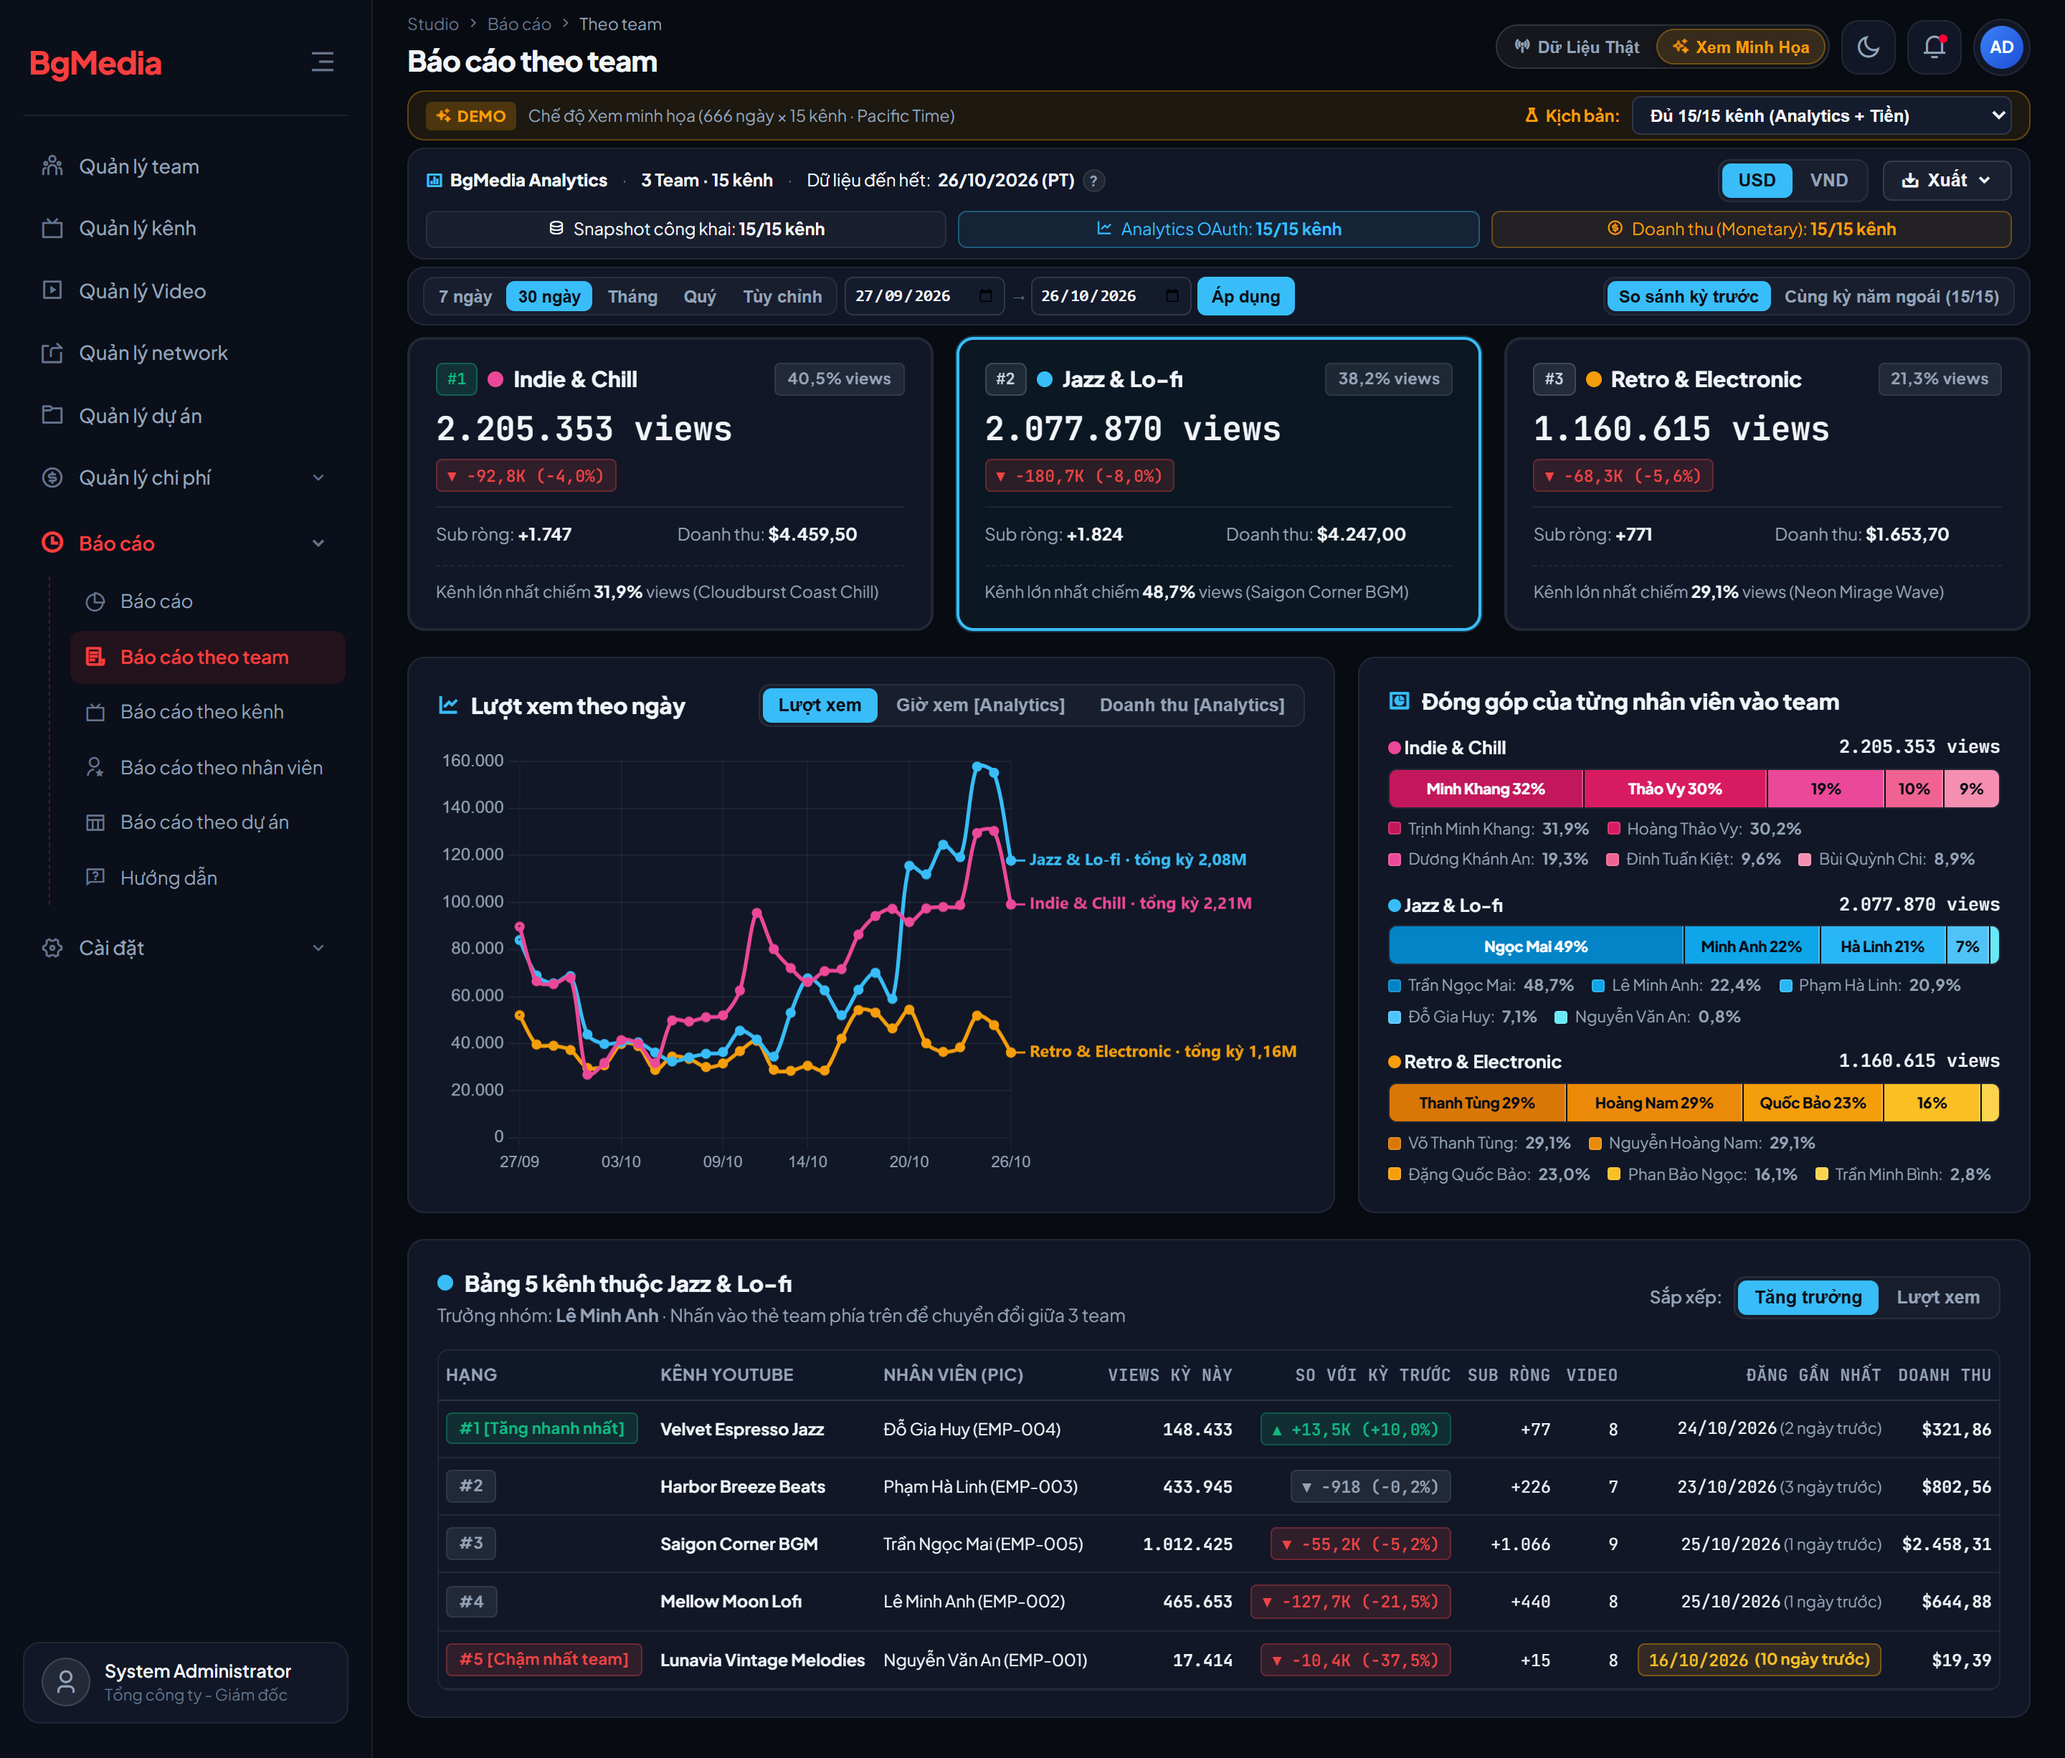
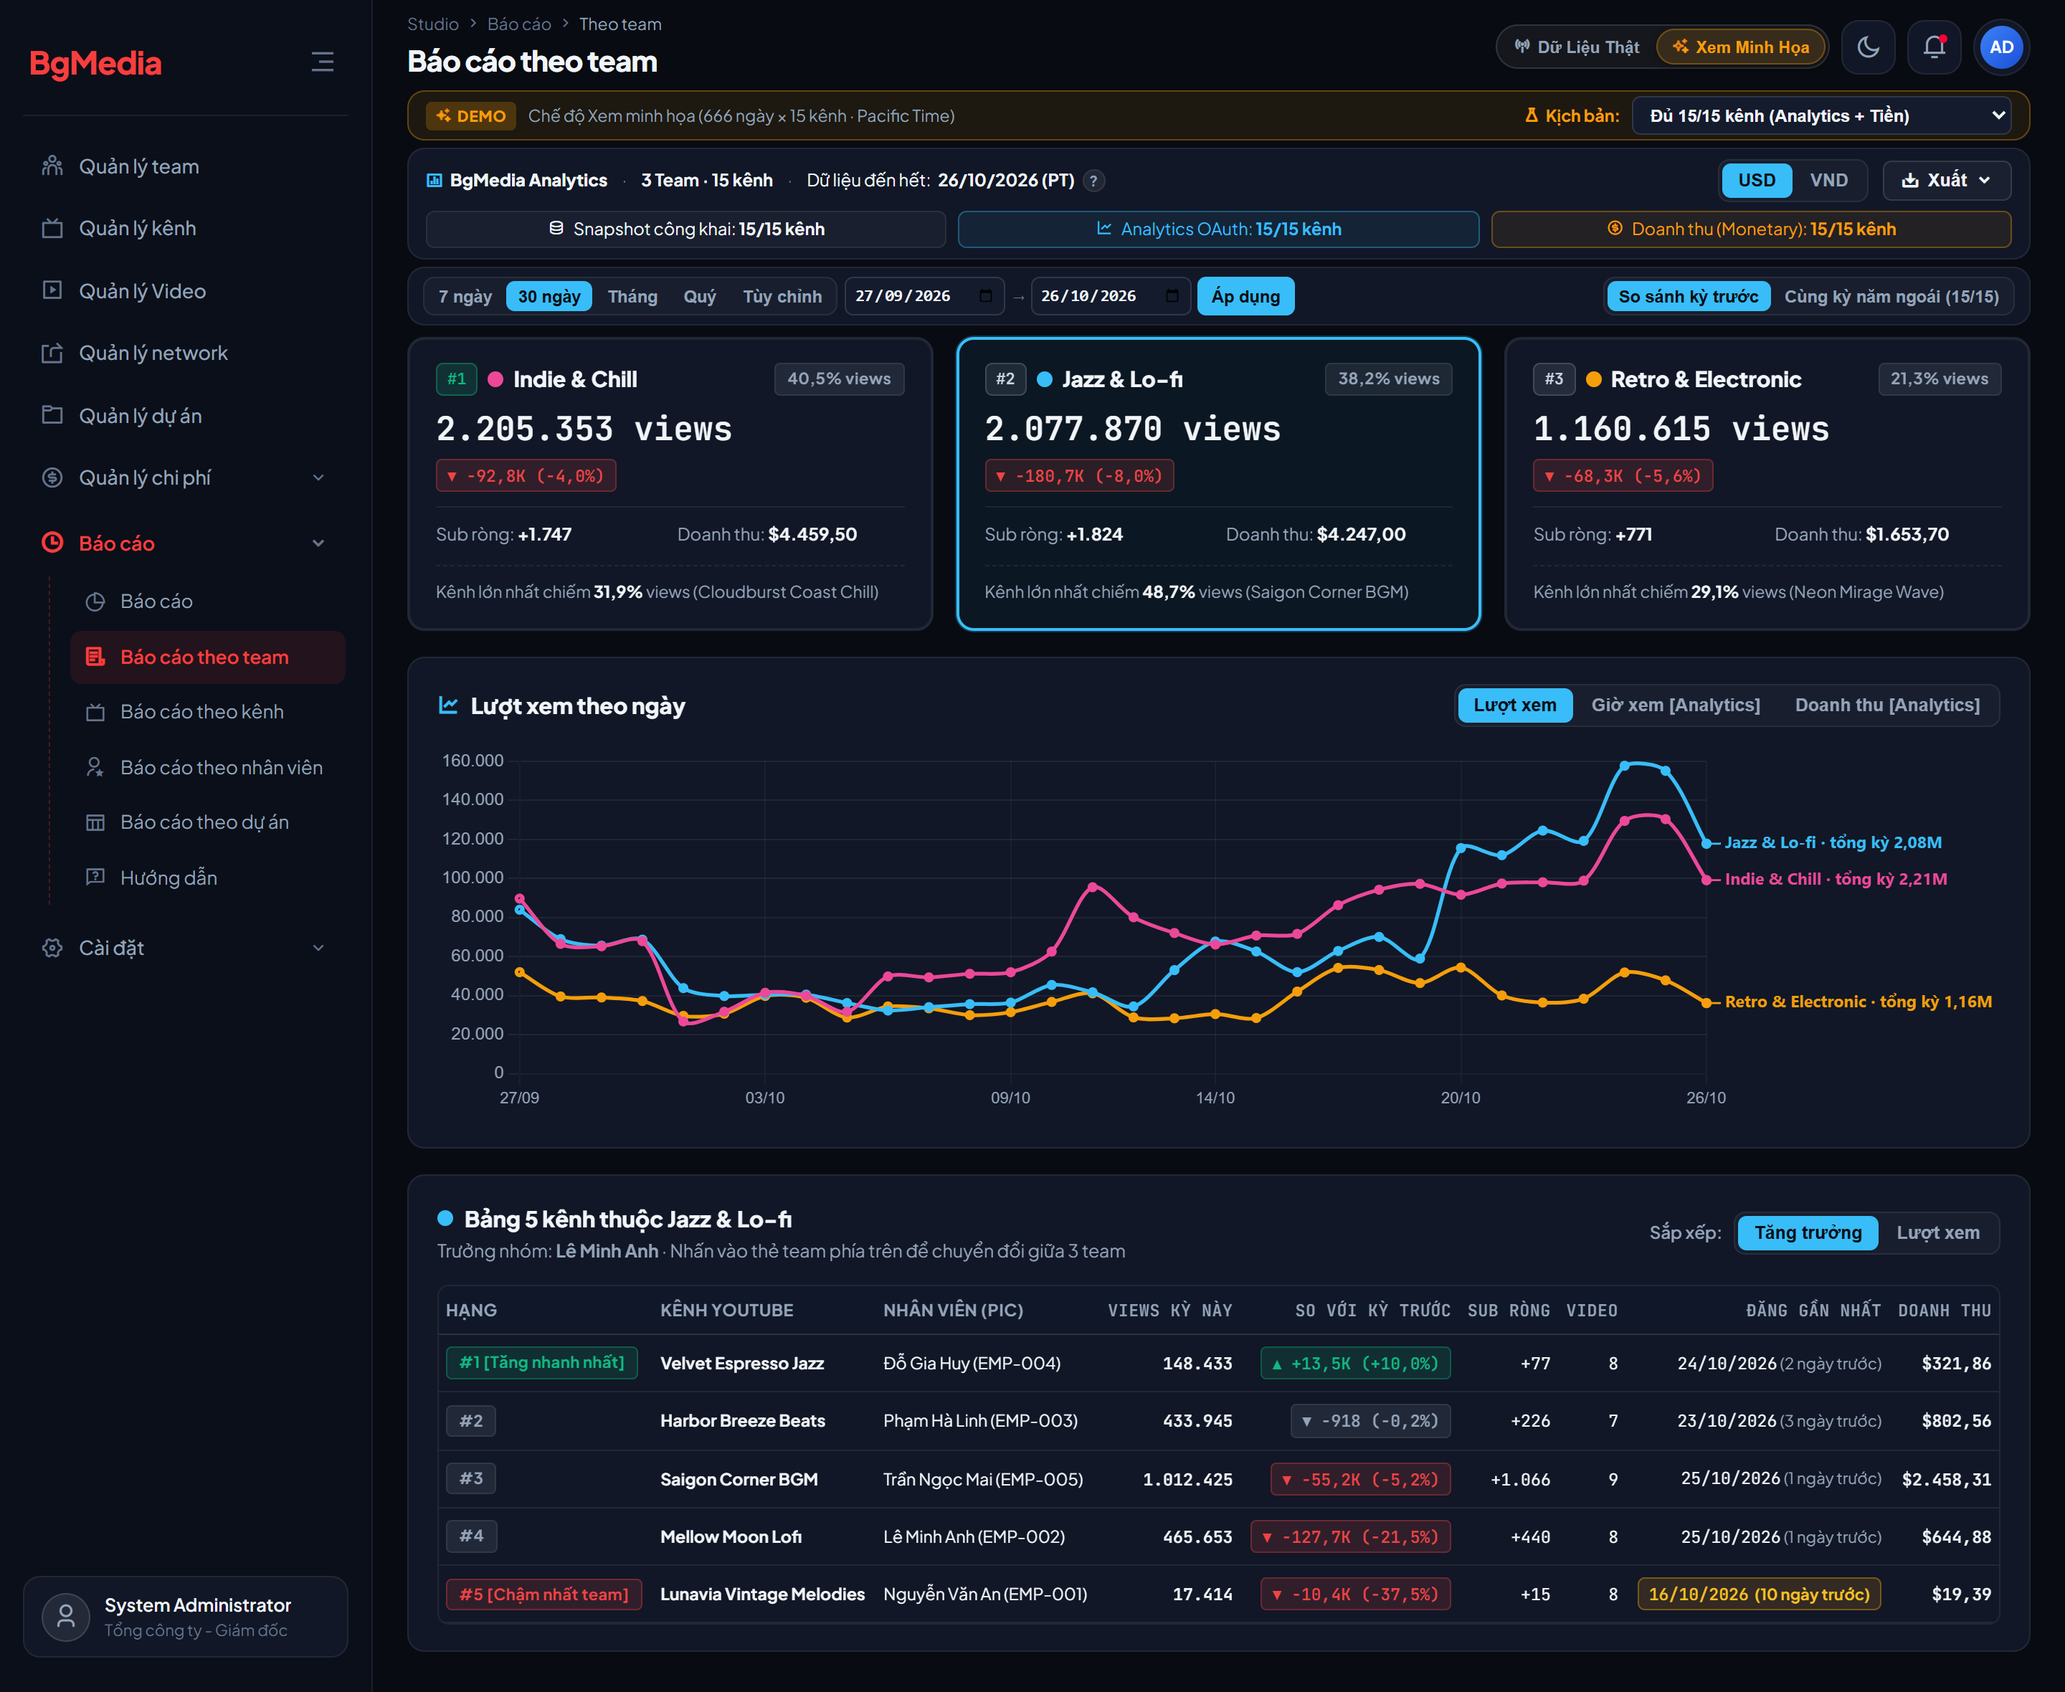
refactor(report-team): remove member contribution block, expand daily line chart to full width

diff --git a/report_v3.js b/report_v3.js
@@ -2880,36 +2880,6 @@
   // =========================================================================
   // PAGE 2: BÁO CÁO THEO TEAM (#view-report-team)
   // =========================================================================
-  const TEAM_SHADES = {
-    'TEAM-01': [
-      { bg: '#0284C7', fg: '#F8FAFC' },
-      { bg: '#0EA5E9', fg: '#090D16' },
-      { bg: '#29B6F6', fg: '#090D16' },
-      { bg: '#4FC3F7', fg: '#090D16' },
-      { bg: '#67E8F9', fg: '#090D16' }
-    ],
-    'TEAM-02': [
-      { bg: '#D97706', fg: '#090D16' },
-      { bg: '#EA8A08', fg: '#090D16' },
-      { bg: '#F59E0B', fg: '#090D16' },
-      { bg: '#FBBF24', fg: '#090D16' },
-      { bg: '#FCD34D', fg: '#090D16' }
-    ],
-    'TEAM-03': [
-      { bg: '#C2185B', fg: '#F8FAFC' },
-      { bg: '#D81B60', fg: '#F8FAFC' },
-      { bg: '#EC4899', fg: '#090D16' },
-      { bg: '#F06292', fg: '#090D16' },
-      { bg: '#F48FB1', fg: '#090D16' }
-    ]
-  };
-
-  function shortEmployeeName(fullName) {
-    const parts = String(fullName || '').trim().split(/\s+/).filter(Boolean);
-    if (parts.length <= 2) return parts.join(' ');
-    return parts.slice(-2).join(' ');
-  }
-
   function renderTeamPage(snap) {
     const root = document.getElementById('v3-team-root');
     if (!root) return;
@@ -2977,72 +2947,25 @@
         }).join('')}
       </div>
 
-      <!-- 2. SIDE-BY-SIDE: 3-TEAM TREND CHART & STACKED MEMBER CONTRIBUTION BARS -->
-      <div class="v3-team-mid-grid">
-        <section class="v3-panel" style="margin-bottom:0;display:flex;flex-direction:column;justify-content:space-between;">
-          <div class="v3-panel-header" style="margin-bottom:10px;">
-            <div>
-              <div class="v3-panel-title">
-                <i class="ri-line-chart-line" style="color:#38BDF8;"></i>
-                ${esc(chartTitle)}
-              </div>
-            </div>
-            <div class="v3-preset-group">
-              <button type="button" class="v3-preset-btn ${v3State.teamChartMetric === 'views' ? 'active' : ''}" data-tm-metric="views">Lượt xem</button>
-              <button type="button" class="v3-preset-btn ${v3State.teamChartMetric === 'watchHours' ? 'active' : ''}" data-tm-metric="watchHours">Giờ xem [Analytics]</button>
-              <button type="button" class="v3-preset-btn ${v3State.teamChartMetric === 'revenue' ? 'active' : ''}" data-tm-metric="revenue">Doanh thu [Analytics]</button>
-            </div>
-          </div>
-          <div style="flex:1;min-height:245px;position:relative;">
-            <canvas id="v3-team-trend-canvas"></canvas>
-          </div>
-        </section>
-
-        <section class="v3-panel" style="margin-bottom:0;display:flex;flex-direction:column;justify-content:space-between;">
+      <!-- 2. FULL-WIDTH 3-TEAM TREND CHART -->
+      <section class="v3-panel">
+        <div class="v3-panel-header" style="margin-bottom:10px;">
           <div>
-            <div class="v3-panel-header" style="margin-bottom:12px;">
-              <div>
-                <div class="v3-panel-title">
-                  <i class="ri-pie-chart-box-line" style="color:#38BDF8;"></i>
-                  Đóng góp của từng nhân viên vào team
-                </div>
-              </div>
-            </div>
-            <div style="display:flex;flex-direction:column;gap:14px;">
-              ${sortedTeams.map(tp => {
-                const tViews = Math.max(1, tp.curr.views || 1);
-                const palette = TEAM_SHADES[tp.id] || TEAM_SHADES['TEAM-01'];
-                const chSorted = [...tp.channels].sort((a, b) => (b.curr.views || 0) - (a.curr.views || 0));
-                return `
-                  <div>
-                    <div style="display:flex;justify-content:space-between;font-size:12.5px;font-weight:700;margin-bottom:5px;white-space:nowrap;">
-                      <span><span class="v3-team-dot" style="background:${tp.color};"></span> ${esc(tp.name)}</span>
-                      <span style="font-family:'JetBrains Mono',monospace;">${tp.curr.views !== null ? fmtInt(tp.curr.views) + ' views' : '—'}</span>
-                    </div>
-                    <div class="v3-contrib-bar">
-                      ${chSorted.map((cp, cIdx) => {
-                        const pct = tp.curr.views ? ((cp.curr.views || 0) / tViews) * 100 : 20;
-                        const shade = palette[cIdx % palette.length];
-                        const shortLabel = pct >= 20
-                          ? `${esc(shortEmployeeName(cp.meta.employeeName))} ${Math.round(pct)}%`
-                          : (pct >= 7 ? `${Math.round(pct)}%` : '');
-                        return `<div class="v3-contrib-seg" style="width:${pct.toFixed(2)}%;background:${shade.bg};color:${shade.fg};" title="${esc(cp.meta.employeeName)} (${esc(cp.meta.title)}): ${fmtInt(cp.curr.views)} views (${fmtDec(pct, 1)}%)">${shortLabel}</div>`;
-                      }).join('')}
-                    </div>
-                    <div class="v3-contrib-legend">
-                      ${chSorted.map((cp, cIdx) => {
-                        const pct = tp.curr.views ? ((cp.curr.views || 0) / tViews) * 100 : 0;
-                        const shade = palette[cIdx % palette.length];
-                        return `<span class="v3-contrib-legend-item"><span class="v3-contrib-swatch" style="background:${shade.bg};"></span>${esc(cp.meta.employeeName)}: <strong>${fmtDec(pct, 1)}%</strong></span>`;
-                      }).join('')}
-                    </div>
-                  </div>
-                `;
-              }).join('')}
+            <div class="v3-panel-title">
+              <i class="ri-line-chart-line" style="color:#38BDF8;"></i>
+              ${esc(chartTitle)}
             </div>
           </div>
-        </section>
-      </div>
+          <div class="v3-preset-group">
+            <button type="button" class="v3-preset-btn ${v3State.teamChartMetric === 'views' ? 'active' : ''}" data-tm-metric="views">Lượt xem</button>
+            <button type="button" class="v3-preset-btn ${v3State.teamChartMetric === 'watchHours' ? 'active' : ''}" data-tm-metric="watchHours">Giờ xem [Analytics]</button>
+            <button type="button" class="v3-preset-btn ${v3State.teamChartMetric === 'revenue' ? 'active' : ''}" data-tm-metric="revenue">Doanh thu [Analytics]</button>
+          </div>
+        </div>
+        <div style="height:265px;position:relative;">
+          <canvas id="v3-team-trend-canvas"></canvas>
+        </div>
+      </section>
 
       <!-- 3. 5-CHANNEL TABLE IN SELECTED TEAM -->
       <section class="v3-panel" style="margin-bottom:0;">

diff --git a/styles.css b/styles.css
@@ -6028,74 +6028,6 @@ input:checked + .slider:before {
   color: var(--text-main);
 }
 
-/* Side-by-side Chart + Member Contribution Grid */
-.v3-team-mid-grid {
-  display: grid;
-  grid-template-columns: 1.38fr 1fr;
-  gap: 16px;
-  align-items: stretch;
-  margin-bottom: 18px;
-}
-
-@media (max-width: 1180px) {
-  .v3-team-mid-grid {
-    grid-template-columns: 1fr;
-  }
-}
-
-/* Stacked Member Contribution Bar */
-.v3-contrib-bar {
-  display: flex;
-  height: 28px;
-  border-radius: 6px;
-  overflow: hidden;
-  border: 1px solid var(--border-subtle);
-}
-
-.v3-contrib-seg {
-  display: flex;
-  align-items: center;
-  justify-content: center;
-  font-size: 10.5px;
-  font-weight: 800;
-  letter-spacing: -0.15px;
-  overflow: hidden;
-  white-space: nowrap;
-  padding: 0 3px;
-  border-right: 1.5px solid #0B0F19;
-  box-shadow: inset -1px 0 0 rgba(255, 255, 255, 0.25);
-}
-
-.v3-contrib-seg:last-child {
-  border-right: none;
-  box-shadow: none;
-}
-
-.v3-contrib-legend {
-  display: flex;
-  flex-wrap: wrap;
-  gap: 5px 12px;
-  margin-top: 6px;
-  font-size: 11px;
-  color: var(--text-muted);
-}
-
-.v3-contrib-legend-item {
-  display: inline-flex;
-  align-items: center;
-  gap: 5px;
-  white-space: nowrap;
-}
-
-.v3-contrib-swatch {
-  width: 9px;
-  height: 9px;
-  border-radius: 2px;
-  display: inline-block;
-  flex-shrink: 0;
-  border: 1px solid rgba(255, 255, 255, 0.14);
-}
-
 .v3-slow-upload-pill {
   display: inline-flex;
   align-items: center;
